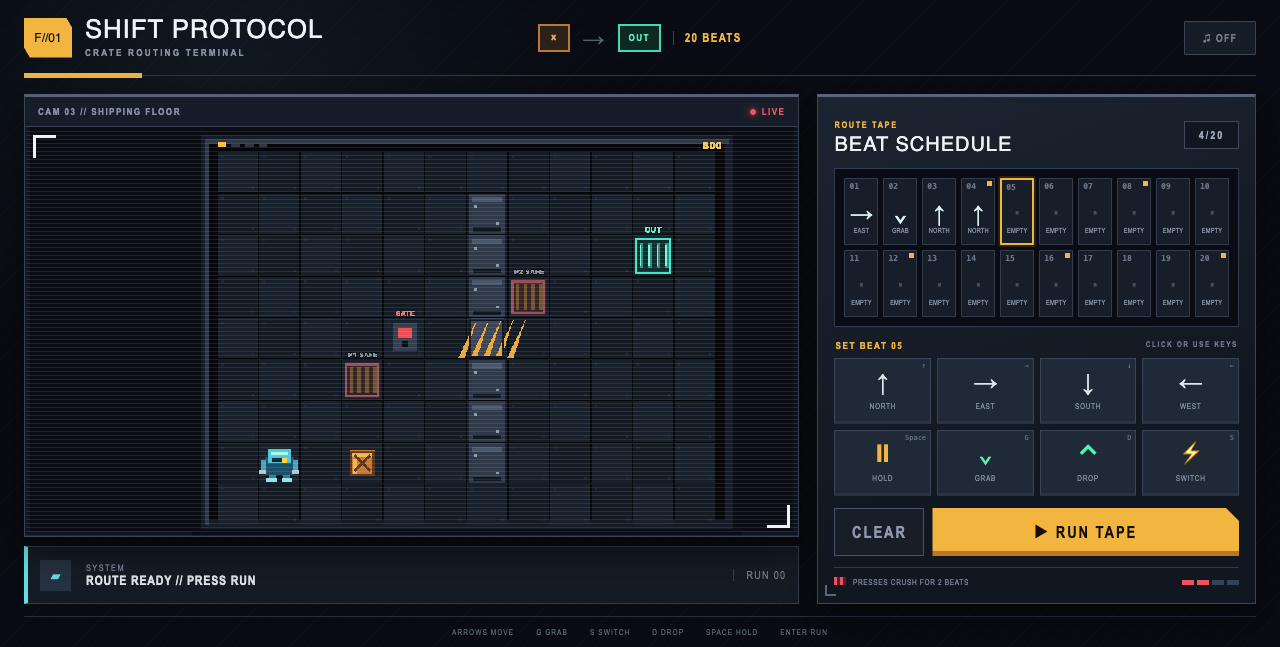
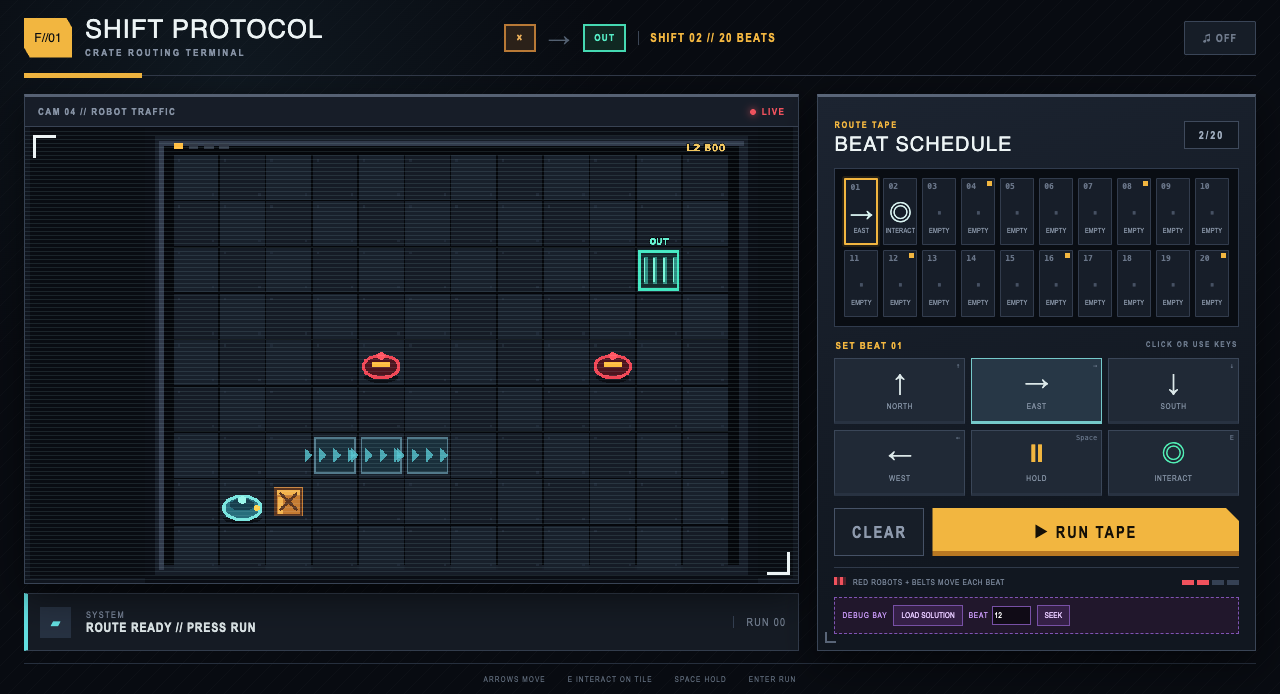
Update Shift Protocol pitch for second shift

diff --git a/factory/README.md b/factory/README.md
@@ -16,11 +16,11 @@ Make sure to make the UI game-like and usable. I think this should be done in Ph
 
 ## Prototype
 
-**Shift Protocol** is a single-level React + Phaser prototype. Program the robot's 20-beat route, time its movement across two cycling presses, open the blast door, and deliver the crate to the OUT bay.
+**Shift Protocol** is a two-level React + Phaser prototype. Program a low-slung cargo roomba's 20-beat route, collect crates and operate floor switches with one context-sensitive interact command, then reach the OUT bay. The first shift introduces cycling presses and a blast door; the second adds moving hostile robots and a conveyor that carries the roomba on every beat.
 
 ```bash
 bun install
 bun run dev
 ```
 
-Use the timeline or keyboard shortcuts: arrows move, `Space` holds, `G` grabs, `S` uses the switch, `D` drops, and `Enter` runs the tape. Runs play against a procedurally synthesized 128 BPM Tone.js score with synchronized press, movement, switch, collision, and delivery cues. Add `?music=off` to silence audio. Add `?debug=true` to reveal controls for loading the verified solution and seeking to any beat; programmatic playtests can also use `window.factoryDebug`.
+Use the timeline or keyboard shortcuts: arrows move, `Space` holds, `E` interacts with the current square, and `Enter` runs the tape. Carrying cargo into OUT completes the shift automatically. Runs play against a procedurally synthesized 128 BPM Tone.js score with synchronized machinery, movement, interaction, collision, and delivery cues. Add `?music=off` to silence audio. Add `?debug=true` to reveal controls for loading each level's verified solution and seeking to any beat; programmatic playtests can also use `window.factoryDebug`.

diff --git a/factory/PITCH.md b/factory/PITCH.md
@@ -1,5 +1,5 @@
 # Shift Protocol
 
-The factory never stops—and neither does the beat. Build a 20-beat command tape that guides a tiny cargo robot through crushing presses, a locked blast door, and one razor-tight delivery window. Every failed run reveals exactly where your timing broke, turning trial, error, and tiny schedule edits into the thrill of finally watching a perfect route click into place.
+The factory never stops—and neither does the beat. Build a 20-beat command tape that guides a tiny cargo roomba through crushing presses, a locked blast door, moving hostile machines, and conveyor traffic. Every failed run reveals exactly where your timing broke, turning trial, error, and tiny schedule edits into the thrill of finally watching a perfect route click into place.
 
 ![Shift Protocol programming interface](screenshots/shift-protocol.png)
